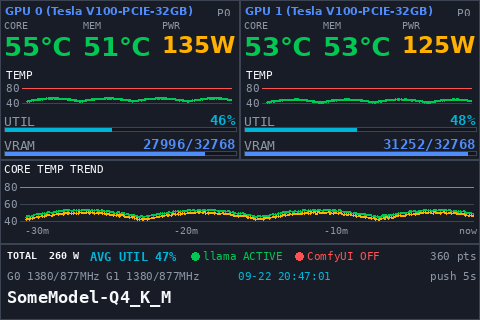
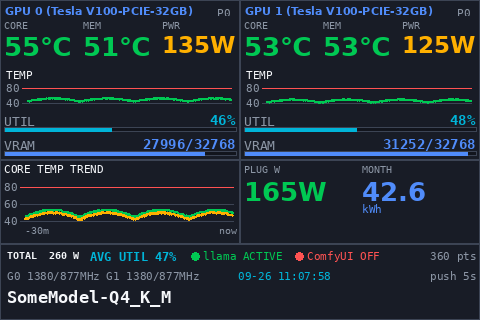
Add Tapo P110M plug panel: instant W + month kWh (TPAP via plugp100), PSU-derived wall-power thresholds

Changed region(s): [[0.0625, 0.5, 1.0, 0.75], [0.5312, 0.8438, 0.6875, 0.875], [0.9688, 0.7188, 1.0, 0.75]]

diff --git a/gpu_dash.py b/gpu_dash.py
@@ -58,6 +58,20 @@ SPARK_MIN_INTERVAL = 20.0           # s between per-GPU sparkline pushes
 TREND_MIN_INTERVAL = 45.0           # s between big-trend pushes
 WATT_QUANT = 5                      # W rounding, keeps hashes stable
 llama_unit = "llama-server.service"   # 自分の llama.cpp unit 名（プロセス検索の fallback でのみ使用）
+# Tapo P110M (smart plug measuring the LLM server's mains power), via plugp100.
+# Real values are set on the server (Environment= in gpu-dash.service);
+# empty TAPO_USER disables the plug panel ("--").
+TAPO_IP = os.environ.get("TAPO_IP", "YOUR_TAPO_IP")
+TAPO_USER = os.environ.get("TAPO_USER", "YOUR_TAPO_USER")
+TAPO_PASS = os.environ.get("TAPO_PASS", "YOUR_TAPO_PASS")
+TAPO_POLL_INTERVAL = 30.0           # s between P110M polls (also the region throttle)
+KWH_QUANT = 0.1                     # month-energy rounding, keeps hashes stable
+# Plug color thresholds, in WALL power (AC in). The 760 W 80PLUS-Platinum PSU
+# guarantees 90/92/89% at 20/50/100% load, so on the wall:
+#   50% load = 760*0.50/0.92 = 413 W   -> green up to here
+#   70% load = 760*0.70/0.91 = 585 W   -> yellow up to here, red above
+PLUG_POWER_WARN = float(os.environ.get("PLUG_POWER_WARN", "415"))
+PLUG_POWER_CRIT = float(os.environ.get("PLUG_POWER_CRIT", "590"))
 # ---------------------------------------
 
 GREEN = (0, 200, 83)
@@ -247,7 +261,11 @@ def sample_gpus():
 def proc_cmdlines():
     """(pid, argv) for every process readable to us, straight from /proc."""
     out = []
-    for entry in os.listdir("/proc"):
+    try:
+        entries = os.listdir("/proc")
+    except OSError:                     # no /proc (dry-run preview on Windows)
+        return out
+    for entry in entries:
         if not entry.isdigit():
             continue
         try:
@@ -318,6 +336,48 @@ def llama_running():
     return None, None
 
 
+# ---- Tapo P110M (TPAP) ----
+_tapo = {"t": 0.0, "power_w": None, "month_kwh": None}
+
+
+def sample_tapo(force=False):
+    """Poll the P110M every TAPO_POLL_INTERVAL s; cache the last good values.
+    Returns the cache dict. Never raises: on any failure the old values stay
+    and the panel keeps rendering (possibly "--")."""
+    now = time.time()
+    if not force and (now - _tapo["t"]) < TAPO_POLL_INTERVAL:
+        return _tapo
+    _tapo["t"] = now
+    if not TAPO_USER:
+        return _tapo
+    try:
+        import asyncio
+        import aiohttp
+        from plugp100 import TapoDiscovery, connect_discovered_device
+        from plugp100.common.credentials import AuthCredential
+
+        async def _read():
+            cred = AuthCredential(TAPO_USER, TAPO_PASS)
+            async with aiohttp.ClientSession() as session:
+                disc = TapoDiscovery(TAPO_IP, 20802, 10)
+                devices = await disc.scan(timeout=10)
+                if not devices:
+                    raise RuntimeError("P110M not discovered")
+                dev = devices[0]
+                tapo_dev = await connect_discovered_device(dev, cred, session)
+                # device-level API works for componentless TPAP firmwares
+                e = await tapo_dev.client.get_energy_usage()
+                if not e.is_success():
+                    raise RuntimeError(str(e.error()))
+                return e.get()
+        info = asyncio.run(_read())
+        _tapo["power_w"] = (info.current_power or 0) / 1000.0      # mW -> W
+        _tapo["month_kwh"] = (info.month_energy or 0) / 1000.0     # mWh -> kWh
+    except Exception as exc:
+        print(f"tapo poll failed: {type(exc).__name__}: {exc}", file=sys.stderr)
+    return _tapo
+
+
 def load_history():
     if not os.path.exists(HISTORY_FILE):
         return []
@@ -356,6 +416,9 @@ def font(kind, size):
             "sans": "/usr/share/fonts/truetype/dejavu/DejaVuSans.ttf",
             "sans_bold": "/usr/share/fonts/truetype/dejavu/DejaVuSans-Bold.ttf",
         }[kind]
+        if not os.path.exists(path):    # preview off the server (Windows): use Consolas/Arial
+            path = {"mono": "consola.ttf", "mono_bold": "consolab.ttf",
+                    "sans": "arial.ttf", "sans_bold": "arialbd.ttf"}[kind]
         _fonts[key] = ImageFont.truetype(path, size)
     return _fonts[key]
 
@@ -401,6 +464,17 @@ def power_color(p_w):
     if p_w > POWER_CRIT:
         return RED
     if p_w > POWER_WARN:
+        return AMBER
+    return GREEN
+
+
+def plug_power_color(p_w):
+    """Watts from the P110M are WALL power -> thresholds in PLUG_POWER_WARN/CRIT."""
+    if p_w is None:
+        return GREY
+    if p_w > PLUG_POWER_CRIT:
+        return RED
+    if p_w > PLUG_POWER_WARN:
         return AMBER
     return GREEN
 
@@ -605,16 +679,52 @@ def build_regions(gpus, history, llama, now):
 
         add(f"vram{k}", x0 + S(2), cy + S(136), pw - S(4), S(22), bg=PANEL, draw_fn=vram)
 
-    # ---- trend panel (full width) ----
+    # ---- trend panel (half width) + plug panel (half width) ----
     def trend(d, w, h, c):
         series = [[hst["gpus"][k]["temp"] for hst in c["history"] if len(hst["gpus"]) > k]
                   for k in range(2)]
+        # half width: only the end labels fit without collision
         draw_graph(d, w, h, series, [GREEN, AMBER], "CORE TEMP TREND",
-                   time_labels=[("-30m", 0.0), ("-20m", 1 / 3), ("-10m", 2 / 3),
-                                ("now", 1.0)])
+                   time_labels=[("-30m", 0.0), ("now", 1.0)])
 
-    add("trend", pad, ty, W - 2 * pad, th, bg=PANEL, border=True,
+    hw = (W - 2 * pad) // 2
+    add("trend", pad, ty, hw, th, bg=PANEL, border=True,
         min_interval=TREND_MIN_INTERVAL, draw_fn=trend)
+    add("plug_bg", pad + hw + pad, ty, hw, th, bg=PANEL, border=True)
+
+    def plug_power(d, w, h, c):
+        # big instant-watts readout (left half of the plug panel). Font size is
+        # fixed from the worst case "255W", so digits never jitter between frames.
+        t = c["tapo"]
+        pw = t["power_w"]
+        big = "--" if pw is None else str(int(round(pw / WATT_QUANT) * WATT_QUANT))
+        text_fit(d, (S(2), S(1)), "PLUG W", "mono", S(10), w - S(4), GREY)
+        txt = big + "W"
+        size = S(26)
+        while size > S(14) and tw(d, "255W", font("sans_bold", size)) > w - S(4):
+            size -= 1
+        d.text((S(2), S(14)), txt, font=font("sans_bold", size),
+               fill=plug_power_color(pw))
+
+    def plug_month(d, w, h, c):
+        # big month-energy readout (right half), same style/size as the watts,
+        # always BLUE (cumulative value, no alarm meaning).
+        t = c["tapo"]
+        kwh = t["month_kwh"]
+        text_fit(d, (S(2), S(1)), "MONTH", "mono", S(10), w - S(4), GREY)
+        txt = "  --" if kwh is None else \
+            f"{round(kwh / KWH_QUANT) * KWH_QUANT:.1f}"
+        size = S(26)
+        while size > S(14) and tw(d, "999.9", font("sans_bold", size)) > w - S(4):
+            size -= 1
+        d.text((S(2), S(14)), txt, font=font("sans_bold", size), fill=BLUE)
+        d.text((S(2), S(40)), "kWh", font=font("mono", S(11)), fill=BLUE)
+
+    # 2px inset inside the plug panel frame (opaque regions repaint borders)
+    add("plug_pwr", pad + hw + pad + S(2), ty + S(2), hw // 2 - S(2), S(56),
+        bg=PANEL, min_interval=TAPO_POLL_INTERVAL, draw_fn=plug_power)
+    add("plug_month", pad + hw + pad + hw // 2, ty + S(2), hw // 2 - S(2), S(56),
+        bg=PANEL, min_interval=TAPO_POLL_INTERVAL, draw_fn=plug_month)
 
     # ---- status panel (full width, 2 rows) ----
     add("status_bg", pad, sy, W - 2 * pad, sh, bg=PANEL, border=True)
@@ -699,7 +809,14 @@ def build_regions(gpus, history, llama, now):
             assert cy <= r.y and r.y + r.h <= cy + ch + 1, f"{r.name} outside card {k}"
     for r in R:
         if r.name == "trend":
-            assert r.y >= cy + ch and r.y + r.h <= sy
+            assert r.y >= cy + ch and r.y + r.h <= sy and r.w <= hw
+    assert pad + 2 * hw <= W - pad + 1, "trend+plug halves exceed canvas width"
+    for r in R:
+        if r.name.startswith("plug"):
+            assert r.x >= pad + hw, f"{r.name} crosses into the trend half"
+            assert r.y >= ty and r.y + r.h <= sy + 1, f"{r.name} outside plug panel"
+            if r.name != "plug_bg":
+                assert r.x + r.w <= pad + 2 * hw - 1, f"{r.name} eats the plug frame"
     status = [r for r in R if r.y > sy and r.name != "trend"]
     for i, a1 in enumerate(status):
         for b1 in status[i + 1:]:
@@ -799,7 +916,8 @@ def main():
     if args.report:
         ls, ml = llama_running()
         ctx = {"gpus": sample_gpus(), "history": history, "llama": ls, "model": ml,
-               "comfyui": comfyui_running(), "now": datetime.now()}
+               "comfyui": comfyui_running(), "now": datetime.now(),
+               "tapo": sample_tapo(force=True)}
         regions = build_regions(ctx["gpus"], ctx["history"], ctx["llama"], ctx["now"])
         total = 0
         print(f"{'region':<11} {'x':>4} {'y':>4} {'w':>4} {'h':>4} {'bytes':>7} "
@@ -831,8 +949,13 @@ def main():
             save_history(history)
 
         llama_state, model_label = llama_running()
+        tapo = sample_tapo()
+        if args.demo and tapo["power_w"] is None:
+            # demo layout preview without touching the plug
+            tapo = dict(tapo, power_w=146.0, month_kwh=28.4)
         ctx = {"gpus": gpus, "history": history, "llama": llama_state,
-               "model": model_label, "comfyui": comfyui_running(), "now": now}
+               "model": model_label, "comfyui": comfyui_running(), "now": now,
+               "tapo": tapo}
         regions = build_regions(gpus, history, ctx["llama"], now)
         try:
             sent, throttled = push(regions, ctx, screen, t0)

diff --git a/tools/gen_preview.py b/tools/gen_preview.py
@@ -38,7 +38,8 @@ for i in range(360):
 now = datetime.datetime.now().replace(microsecond=0)
 regions = G.build_regions(gpus, history, True, now)
 img = G.composite(regions, {"gpus": gpus, "history": history, "llama": True,
-                            "model": "SomeModel-Q4_K_M", "comfyui": False, "now": now})
+                            "model": "SomeModel-Q4_K_M", "comfyui": False, "now": now,
+                            "tapo": {"t": 0.0, "power_w": 165.0, "month_kwh": 42.6}})
 
 repo_root = os.path.dirname(os.path.dirname(os.path.abspath(__file__)))
 out = os.path.join(repo_root, "assets", "preview_latest.png")

diff --git a/CHANGELOG.md b/CHANGELOG.md
@@ -1,5 +1,15 @@
 # 変更履歴
 
+## 2026-09-26 — Tapo P110M プラグパネル追加
+
+- **P110M（TPAP対応の `plugp100`）でコンセント計測の壁側電力を取得**。CORE TEMP TREND を半幅化（時間ラベルは -30m/now の2本に間引き）、空いた右半分にプラグパネルを新設:
+  - 左カラム: 瞬間電力の大数字（5W量子化、枠線内2px inset）
+  - 右カラム: 月次消費電力量の大数字 + kWh（累計なので常に青）
+- **壁側電力の色閾値をPSU規格から逆算**: 760W 80PLUS Platinum（20/50/100%負荷で90/92/89%保証）→ 50%負荷=約413Wまで緑、70%負荷=約585Wまで黄、以上赤。`PLUG_POWER_WARN`/`PLUG_POWER_CRIT`（環境変数で上書き可）。
+- ポーリングは30秒間隔・キャッシュ方式。失敗時は旧値（起動時は `--`）を維持し、ダッシュボードは止めない。
+- 環境固有値（`TAPO_IP`/`TAPO_USER`/`TAPO_PASS`）は環境変数のみで、リポジトリに実値は書かない（unit 本体を触らない drop-in で注入）。
+- 付随修正: `plugp100` の公開API（`TapoDevice.client`、Try型の `is_success()/get()`）に合わせる。dry-run プレビューの移植性（`/proc` 不在対応、Consolas/Arial フォールバック）。
+
 ## 2026-09-22 — 公開前の精査（個人情報除去・ライセンス）
 
 - **個人情報/固有識別情報を一般表記へ**: 個人環境の実ユーザー名・実IP・実モデル名・unit 名を
